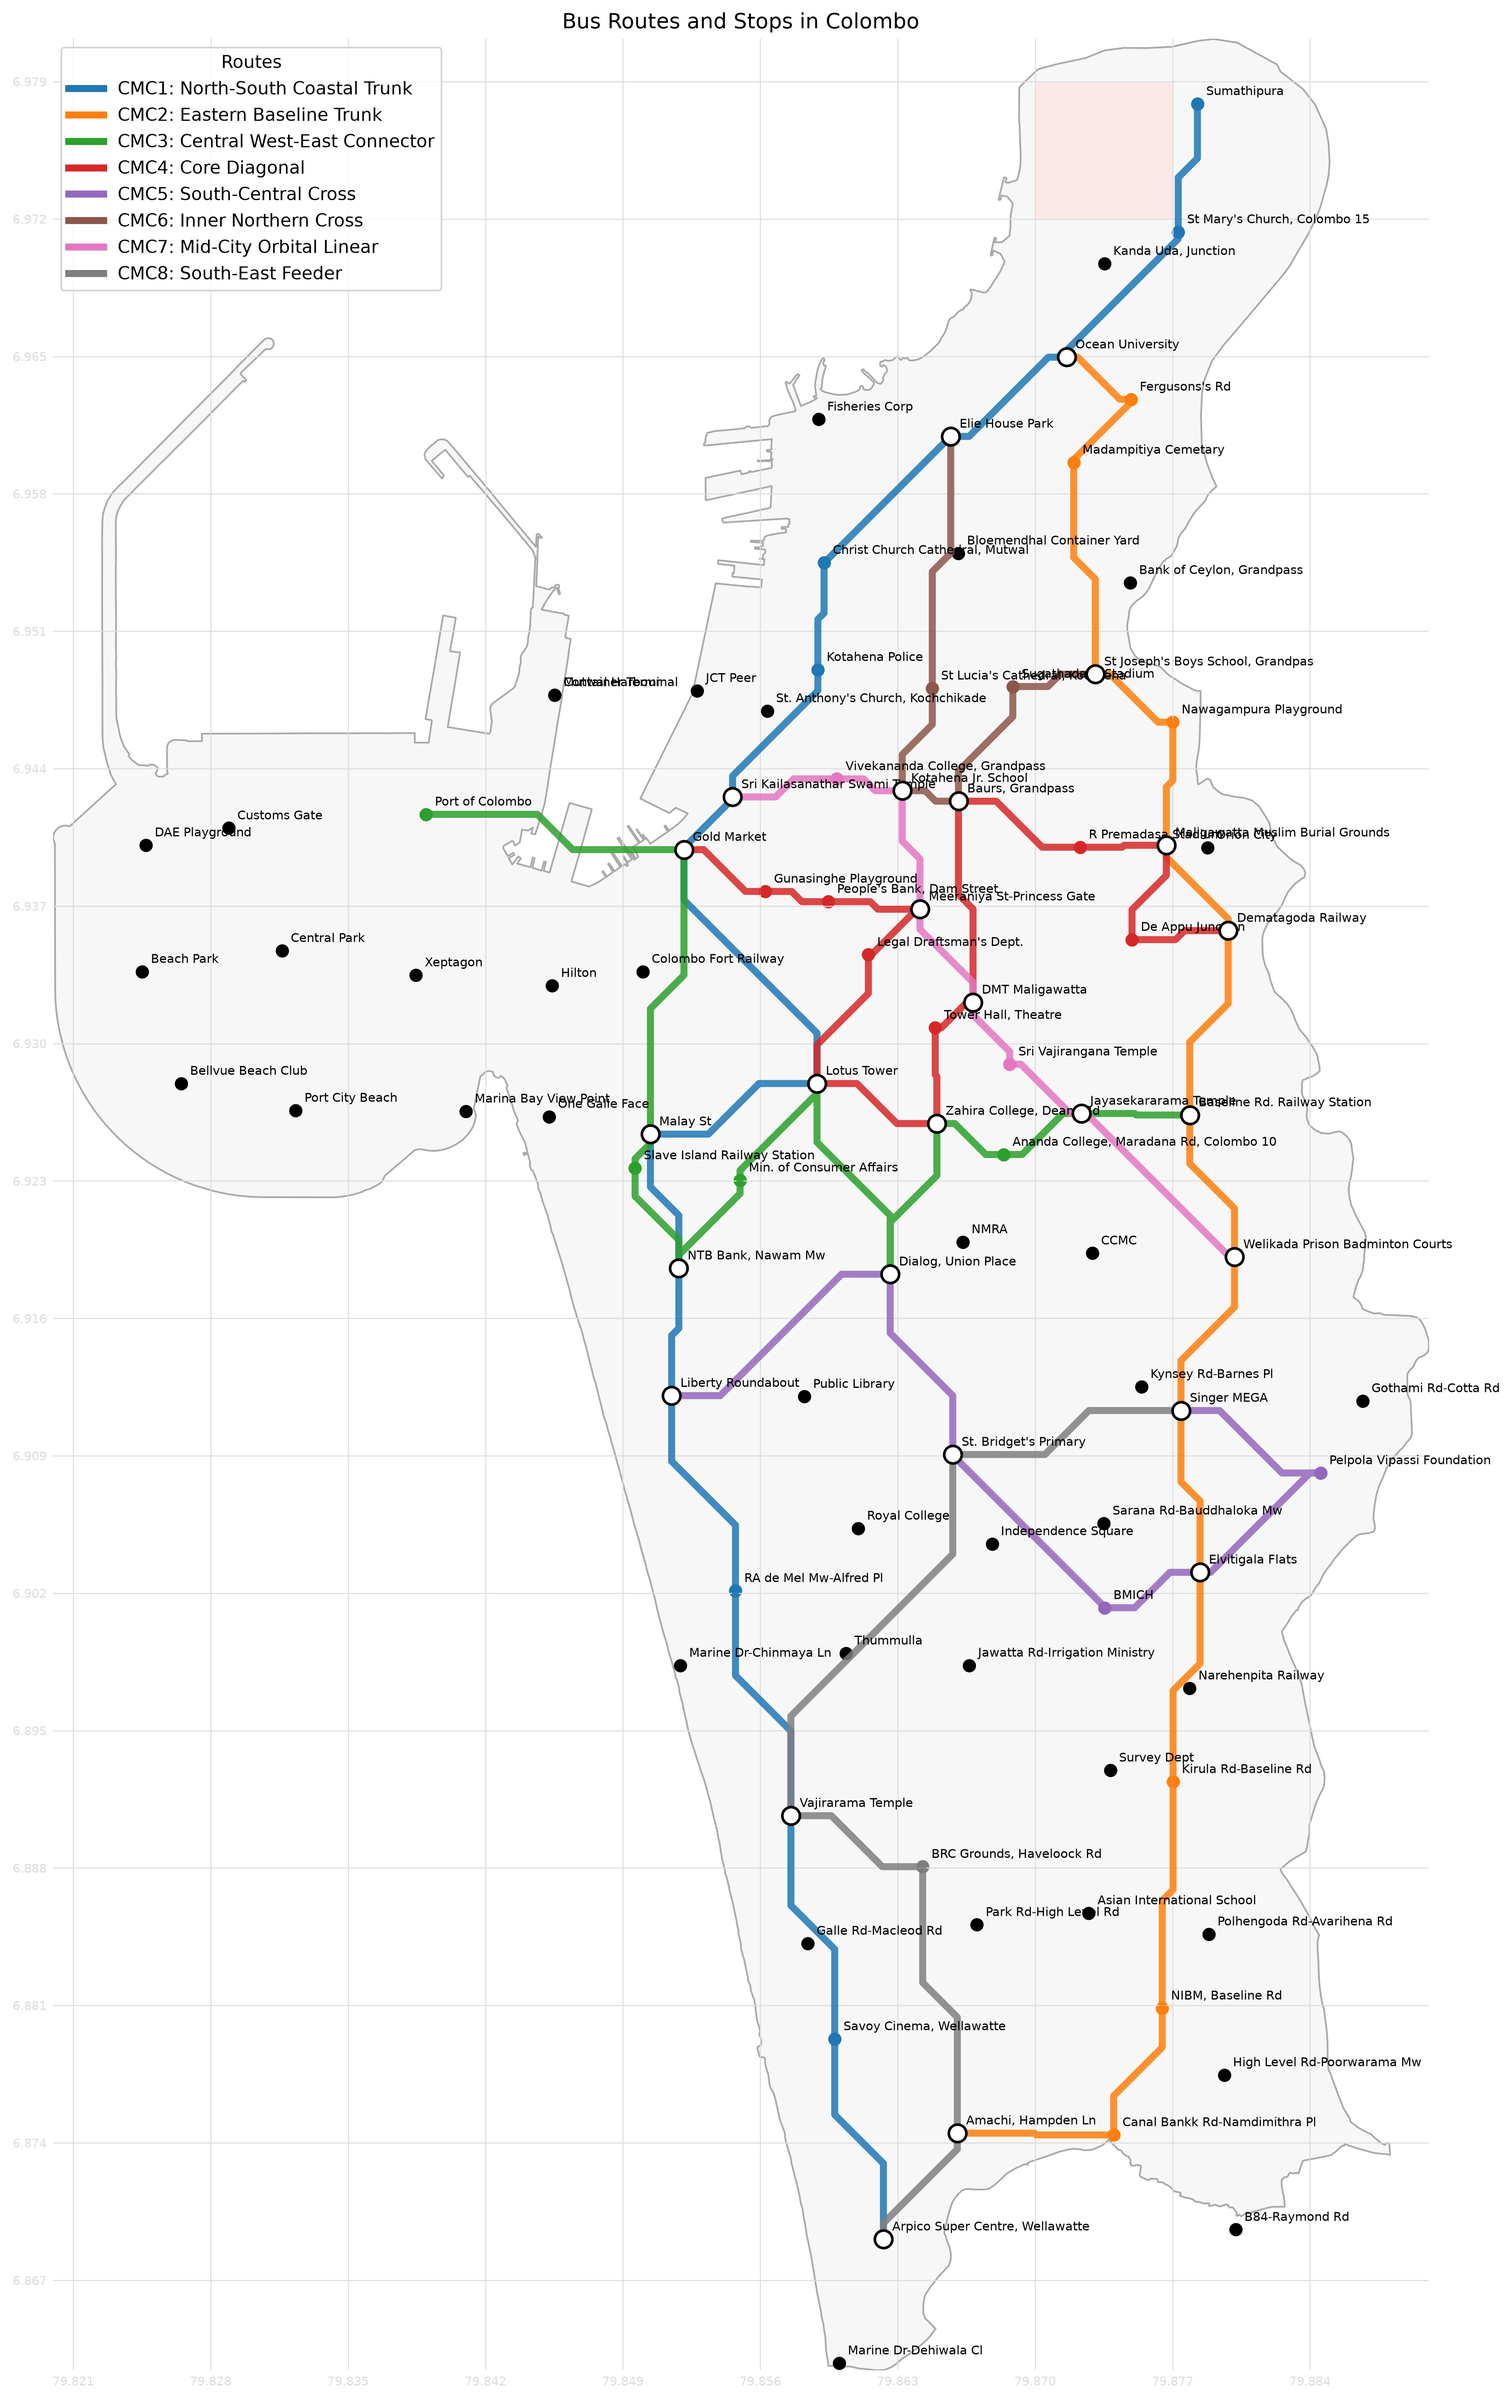
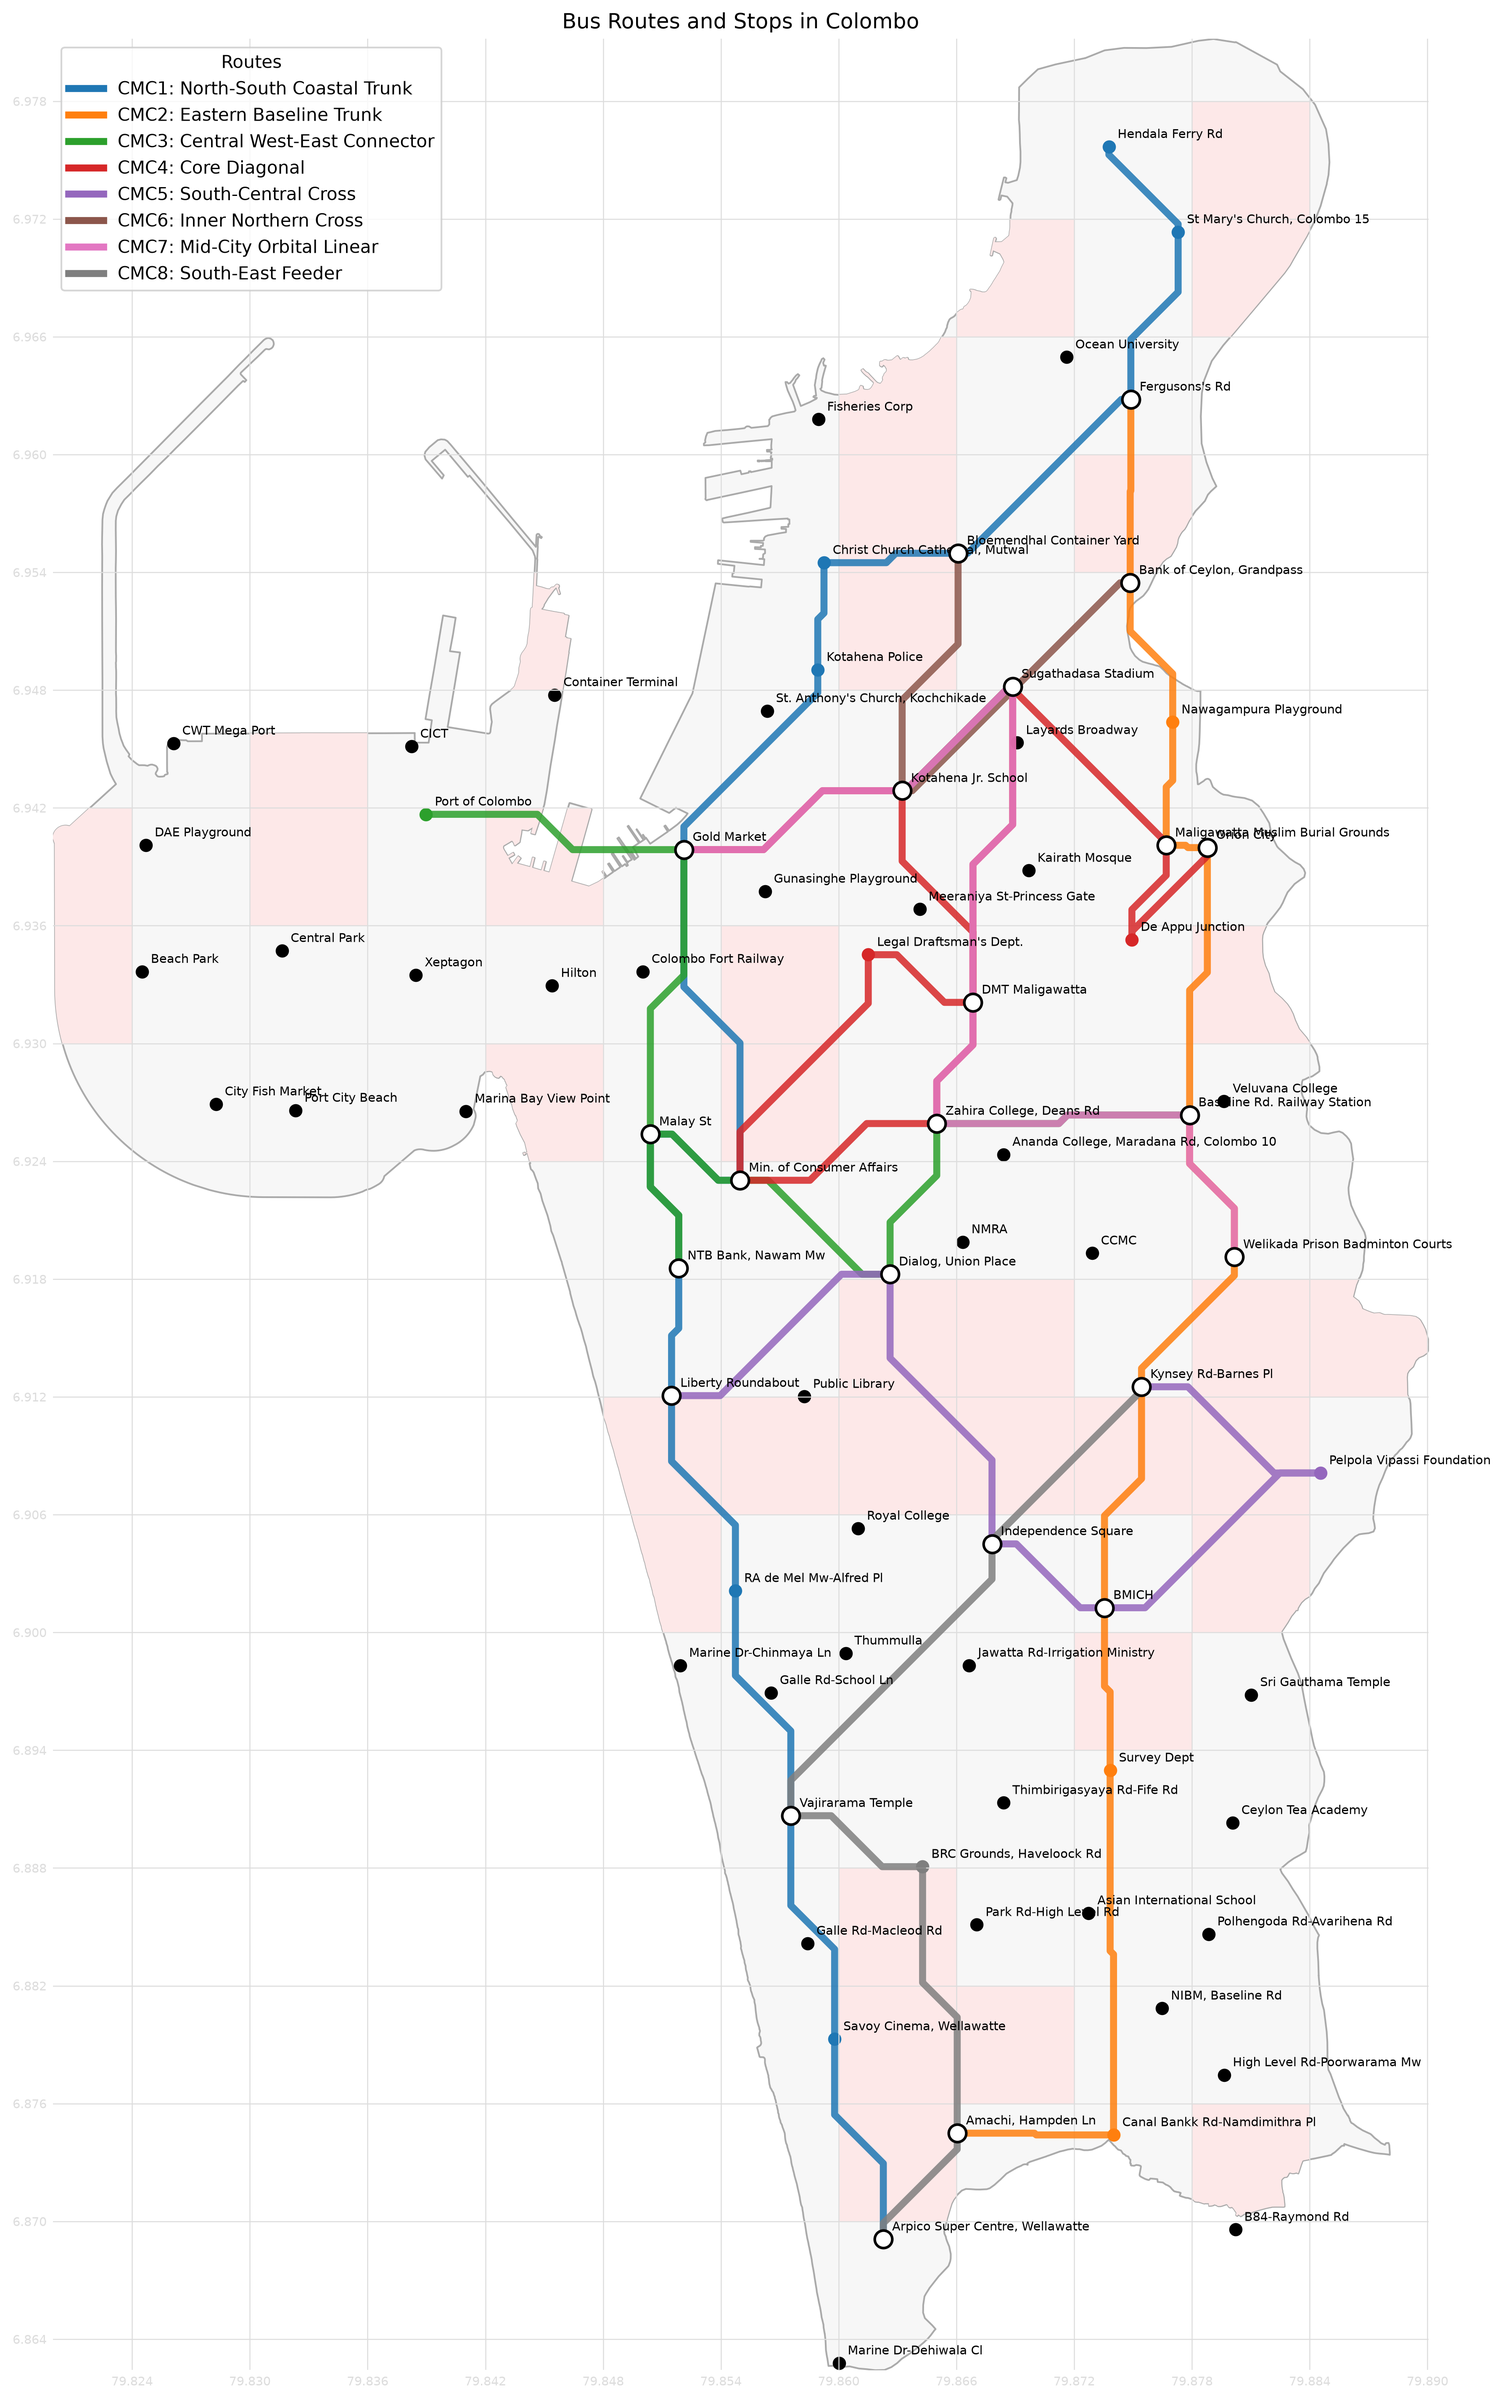
Update places and routes data; remove duplicates and enhance grid handling

diff --git a/src/cbn/core/Place.py b/src/cbn/core/Place.py
@@ -1,6 +1,7 @@
 import os
 import random
 import webbrowser
+from collections import defaultdict
 from dataclasses import dataclass
 from functools import cache
 from math import floor
@@ -11,7 +12,7 @@ from geopy.geocoders import Nominatim
 from gig import Ent, EntType
 from shapely.geometry import Point
 from shapely.ops import unary_union
-from utils_future import JSONFile, Log
+from utils_future import File, JSONFile, Log
 
 log = Log("Place")
 
@@ -22,13 +23,17 @@ class Place:
     latlng: List[float]
 
     PRECISION = 6
-    GRID_LATITUDE = 0.007
-    GRID_LONGITUDE = 0.007
+    GRID_LATITUDE = 0.006
+    GRID_LONGITUDE = 0.006
     COLOMBO_DSD_IDS = {"LK-1103", "LK-1127"}
 
     @classmethod
     def get_data_file(cls) -> JSONFile:
         return JSONFile(os.path.join("data", "places.json"))
+
+    @classmethod
+    def get_removed_data_file(cls) -> JSONFile:
+        return JSONFile(os.path.join("data", "places.removed.json"))
 
     def fill_latlng(self):
         if self.latlng is not None:
@@ -54,6 +59,79 @@ class Place:
         data_file = cls.get_data_file()
         idx = data_file.read()
         return [cls(name, latlng) for name, latlng in idx.items()]
+
+    @classmethod
+    def get_grid_cell(cls, place):
+        return (
+            floor(place.latlng[0] / cls.GRID_LATITUDE),
+            floor(place.latlng[1] / cls.GRID_LONGITUDE),
+        )
+
+    @classmethod
+    def _distance_to_grid_center(cls, place):
+        latitude, longitude = cls.get_grid_cell(place)
+        center_latitude = (latitude + 0.5) * cls.GRID_LATITUDE
+        center_longitude = (longitude + 0.5) * cls.GRID_LONGITUDE
+        return (place.latlng[0] - center_latitude) ** 2 + (
+            place.latlng[1] - center_longitude
+        ) ** 2
+
+    @classmethod
+    def _rewrite_removed_route_stops(cls, replacements):
+        from cbn.core.Route import Route
+
+        data_file = Route.get_data_file()
+        route_data_list = data_file.read()
+        for route_data in route_data_list:
+            rewritten = [
+                replacements.get(stop, stop) for stop in route_data["stops"]
+            ]
+            route_data["stops"] = [
+                stop
+                for index, stop in enumerate(rewritten)
+                if index == 0 or stop != rewritten[index - 1]
+            ]
+        data_file.write(route_data_list)
+
+    @classmethod
+    def remove_grid_duplicates(cls):
+        groups = defaultdict(list)
+        for place in cls.list():
+            groups[cls.get_grid_cell(place)].append(place)
+
+        kept = []
+        removed = []
+        replacements = {}
+        for group in groups.values():
+            group.sort(
+                key=lambda place: (
+                    cls._distance_to_grid_center(place),
+                    place.name,
+                )
+            )
+            keeper = group[0]
+            kept.append(keeper)
+            removed.extend(group[1:])
+            replacements.update(
+                {place.name: keeper.name for place in group[1:]}
+            )
+
+        cls.get_data_file().write(
+            {
+                place.name: place.latlng
+                for place in sorted(kept, key=lambda place: place.name)
+            }
+        )
+        removed_data_file = cls.get_removed_data_file()
+        removed_idx = (
+            removed_data_file.read() if removed_data_file.exists() else {}
+        )
+        removed_idx.update({place.name: place.latlng for place in removed})
+        removed_data_file.write(dict(sorted(removed_idx.items())))
+        cls._rewrite_removed_route_stops(replacements)
+        log.info(f"Wrote {File(os.path.join('data', 'places.removed.json'))}")
+        log.info(f"Removed {len(removed)} duplicate-grid places")
+        return removed
 
     @classmethod
     @cache

diff --git a/src/cbn/core/Network.py b/src/cbn/core/Network.py
@@ -303,6 +303,9 @@ class Network:
 
     @staticmethod
     def _plot_uncovered_grid_cells(ax, boundary, uncovered_cells):
+        if not uncovered_cells:
+            return
+
         geometries = [
             box(
                 longitude * Place.GRID_LONGITUDE,

diff --git a/workflows/pipeline.py b/workflows/pipeline.py
@@ -11,6 +11,7 @@ def run_network():
 
 def run_place():
     Place.fill_all_latlng()
+    Place.remove_grid_duplicates()
     Place.analyze_coverage()
     Place.open_random_uncovered_cells_in_google_maps(limit=10)
 
